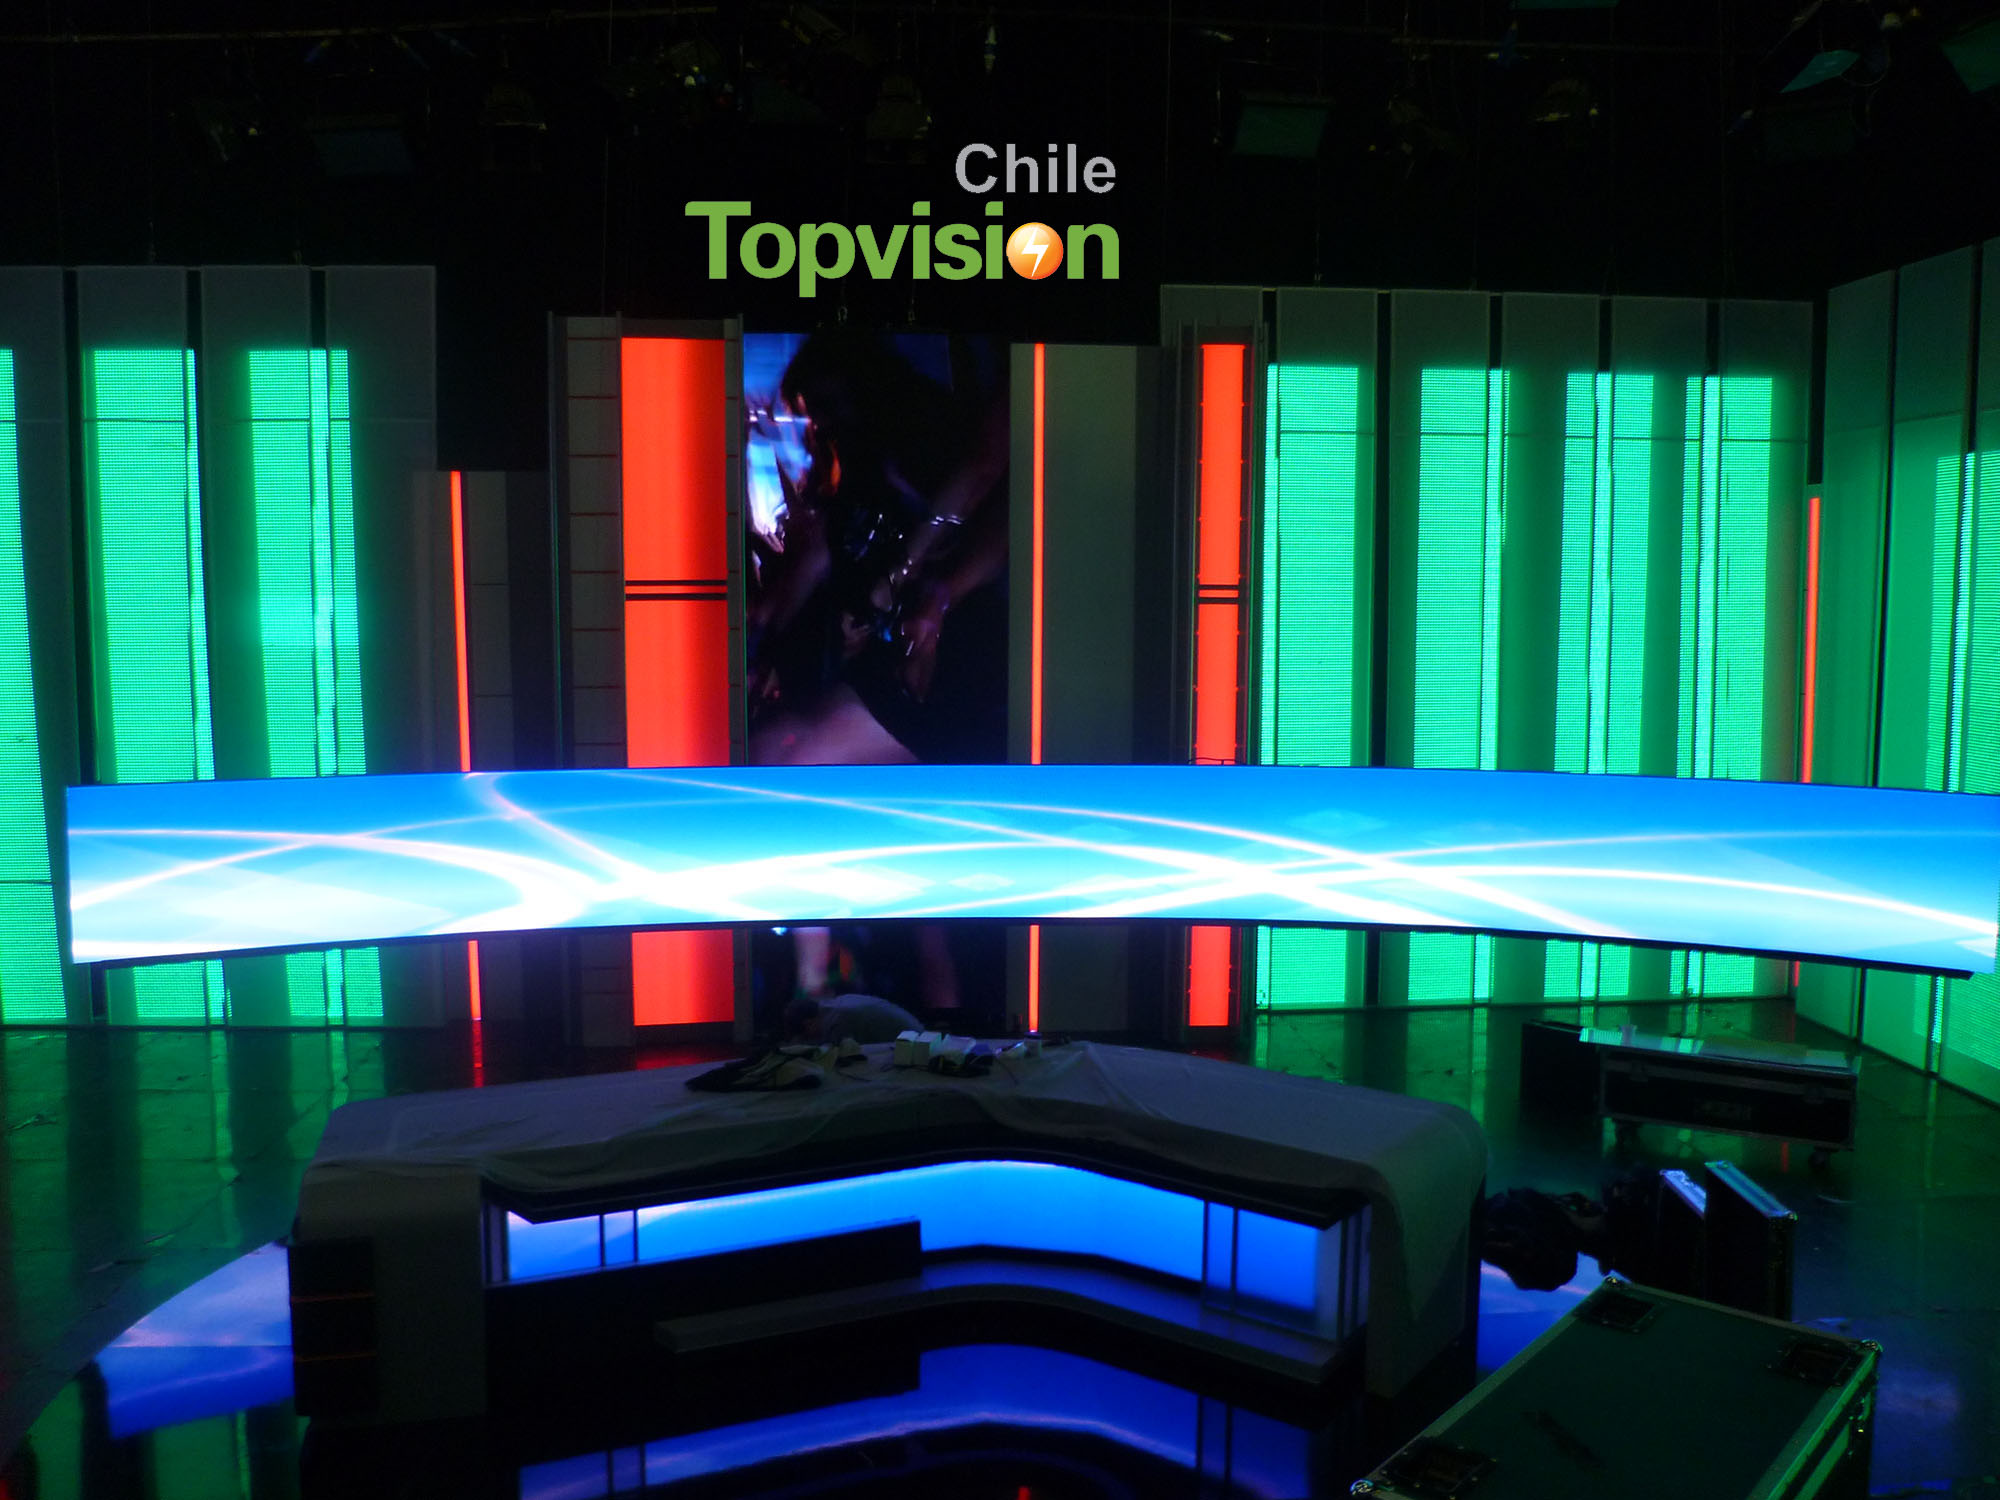
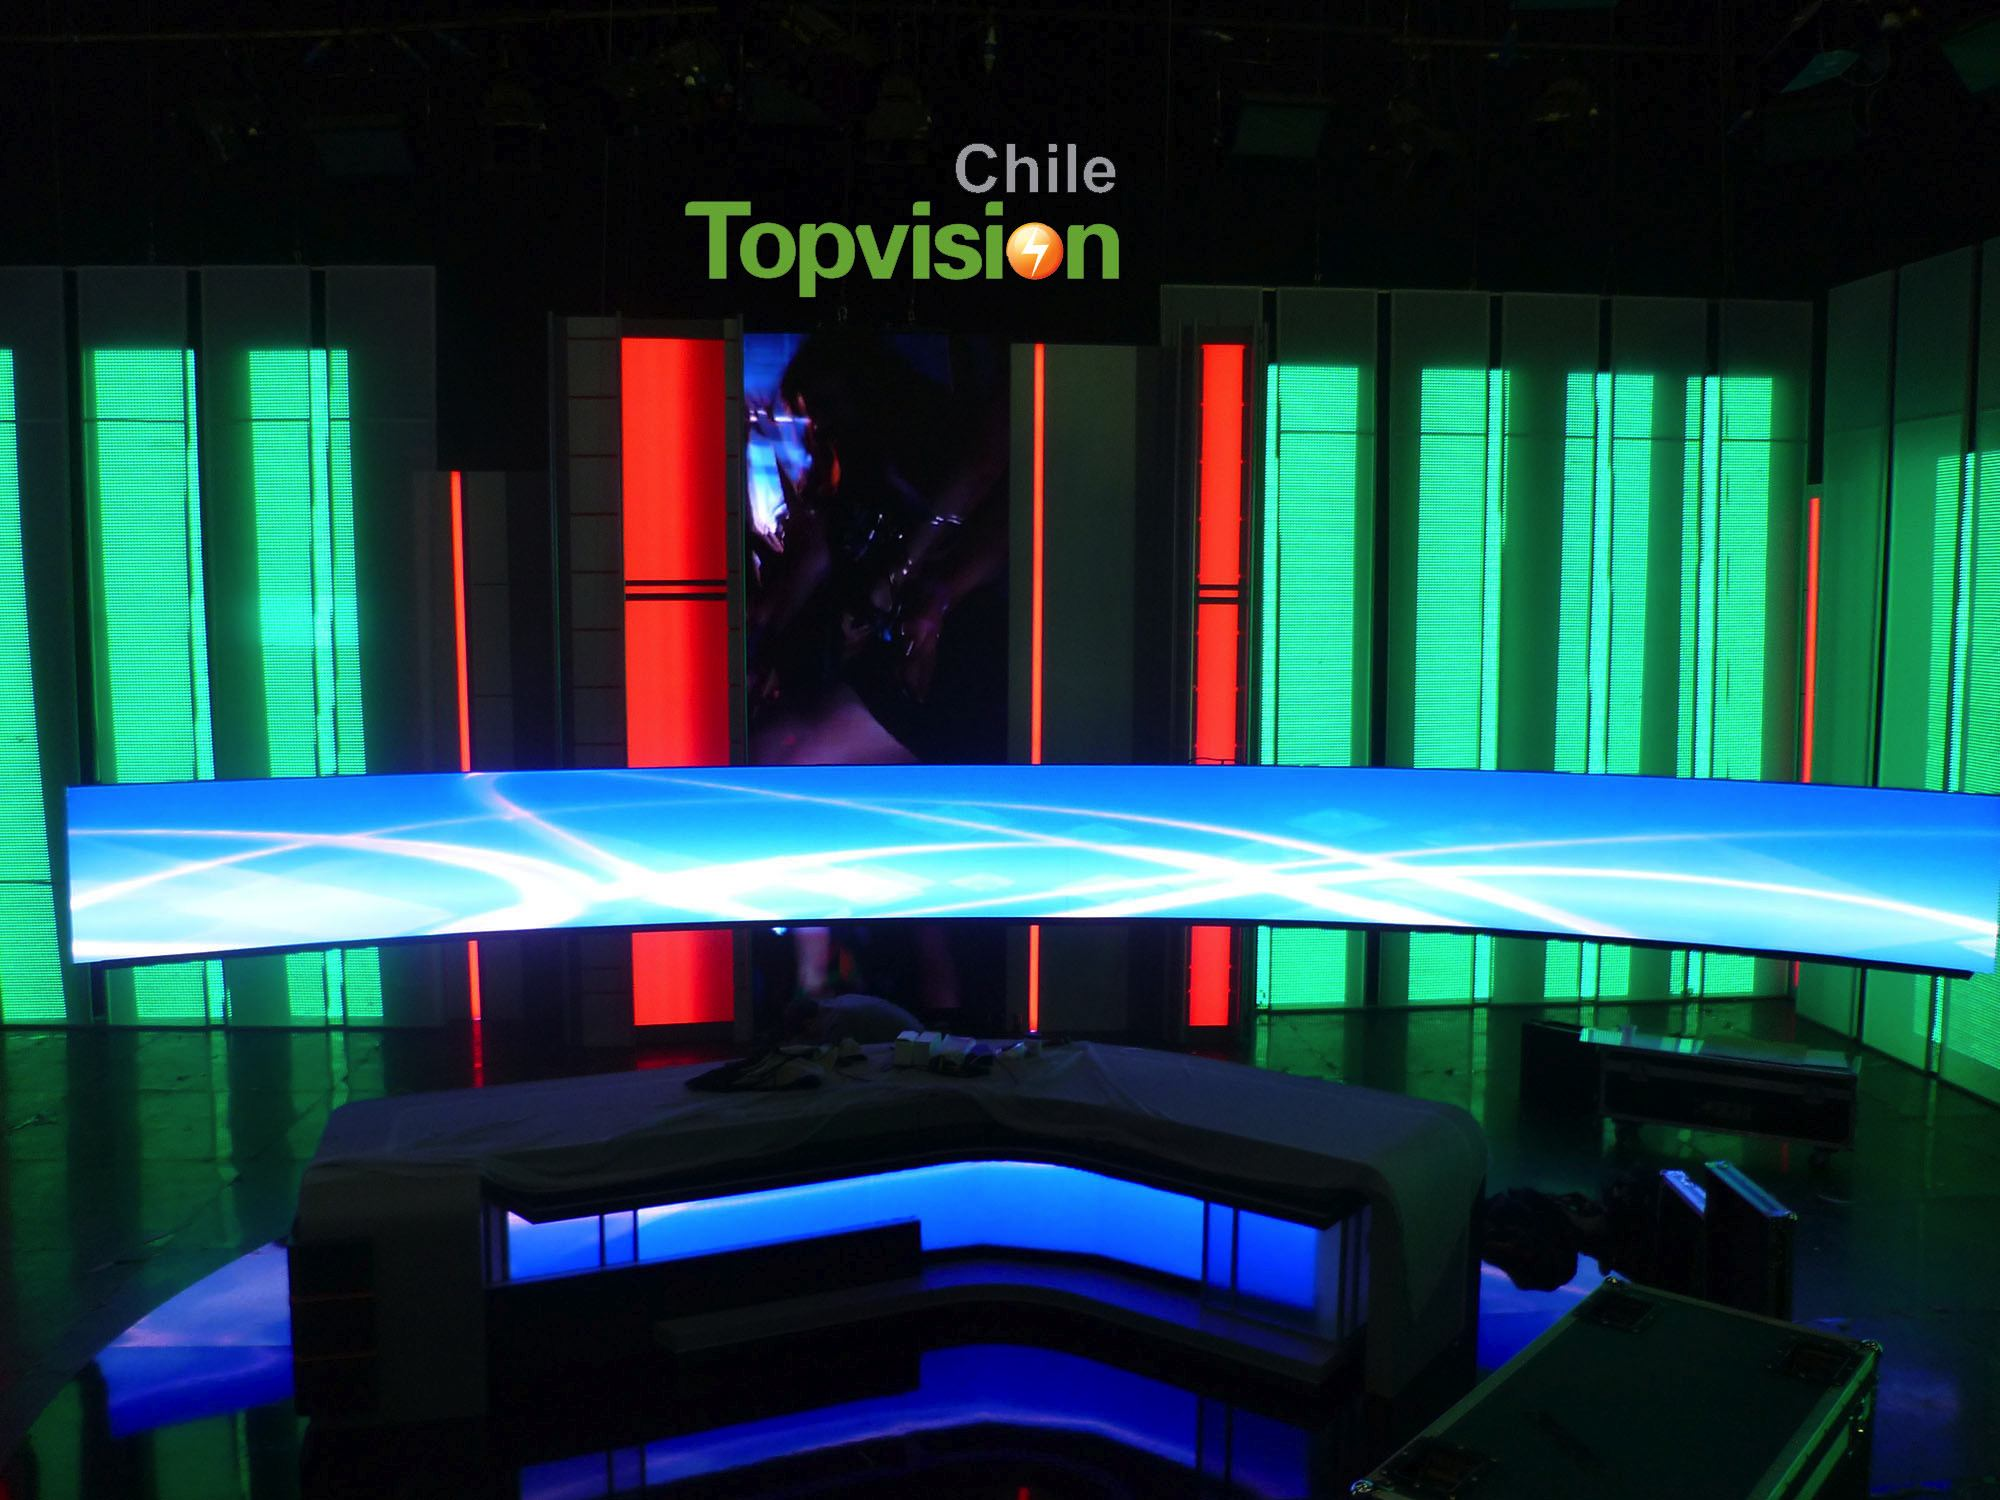
reduce size of images + delete task from to do list (readme)

diff --git a/README.md b/README.md
@@ -3,6 +3,5 @@ top_vision
 
 ##TO DO 
 - Helpers for navigation links
-- Reduce image size
 - Modal for showing the images
 - Products
